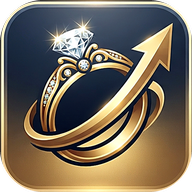
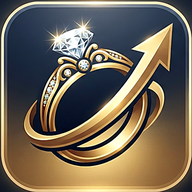
Add files via upload

diff --git a/index.html b/index.html
@@ -862,27 +862,33 @@
         radial-gradient(ellipse 70% 55% at 50% 42%, rgba(212,175,55,.16) 0%, rgba(212,175,55,0) 62%),
         radial-gradient(ellipse at center, #1c2438 0%, #131a2c 45%, #0a0f1e 100%)!important;
 }
-#loginOverlay .login-box, #custPortalLoginPanel .login-box{
+#loginOverlay .login-box{
     background:linear-gradient(160deg, rgba(30,39,62,.92), rgba(15,21,38,.94))!important;
     border:1.5px solid transparent!important;
     background-clip:padding-box;
     box-shadow:0 0 0 1.5px rgba(212,175,55,.55), 0 0 42px rgba(212,175,55,.14), 0 24px 60px rgba(0,0,0,.6)!important;
     border-radius:26px!important;
 }
-#custPortalLoginPanel{
-    background:
-        radial-gradient(ellipse 70% 55% at 50% 42%, rgba(212,175,55,.14) 0%, rgba(212,175,55,0) 62%),
-        radial-gradient(ellipse at center, #1c2438 0%, #131a2c 45%, #0a0f1e 100%)!important;
-}
 </style>
 <div id="loginOverlay">
     <!-- لوحة الدخول الرئيسية -->
     <div class="login-box" id="loginMainPanel">
         <div class="login-logo" style="margin-bottom:.7rem">
-            <img src="icons/icon-192.png" alt="" style="width:96px;height:96px;border-radius:24px;box-shadow:0 0 34px rgba(212,175,55,.55),0 0 80px rgba(212,175,55,.2);display:block;margin:0 auto">
+            <svg viewBox="0 0 100 100" width="96" height="96" style="display:block;margin:0 auto;border-radius:24px;box-shadow:0 0 34px rgba(212,175,55,.55),0 0 80px rgba(212,175,55,.2)">
+  <defs>
+    <linearGradient id="lgBg" x1="0" y1="0" x2="1" y2="1"><stop offset="0" stop-color="#2a3350"/><stop offset="1" stop-color="#0f1526"/></linearGradient>
+    <linearGradient id="lgGold" x1="0" y1="0" x2="1" y2="1"><stop offset="0" stop-color="#f6e27a"/><stop offset="0.5" stop-color="#d4af37"/><stop offset="1" stop-color="#a87b1f"/></linearGradient>
+  </defs>
+  <rect x="2" y="2" width="96" height="96" rx="22" fill="url(#lgBg)" stroke="url(#lgGold)" stroke-width="3"/>
+  <path d="M22 62 C22 50 34 44 50 44 C66 44 78 50 78 62 C78 74 66 80 50 80 C34 80 22 74 22 62 Z" fill="none" stroke="url(#lgGold)" stroke-width="5"/>
+  <path d="M30 66 L70 40 L64 38 M70 40 L68 46" fill="none" stroke="url(#lgGold)" stroke-width="4.5" stroke-linecap="round" stroke-linejoin="round"/>
+  <path d="M42 40 L50 24 L58 40 Z" fill="#eaf4ff" stroke="url(#lgGold)" stroke-width="1.5"/>
+  <path d="M42 40 L50 32 L58 40 M50 24 L50 40" fill="none" stroke="#9fb8d6" stroke-width="1"/>
+</svg>
         </div>
         <h2 class="login-title" style="background:linear-gradient(135deg,#f6e27a,#d4af37 45%,#a87b1f);-webkit-background-clip:text;background-clip:text;-webkit-text-fill-color:transparent;letter-spacing:.03em">GoldPro</h2>
         <p class="login-sub">نظام إدارة الذهب — سجّل دخولك</p>
+        <p style="font-size:.66rem;color:#9ca3af;margin:.15rem 0 .5rem">أنت زبون؟ أدخل رقم هاتفك في «اسم المستخدم» وكلمة سرك</p>
         <input type="text" id="loginUser" placeholder="👤 اسم المستخدم"
             autocomplete="username" dir="ltr"
             style="width:100%;padding:.85rem 1rem;border-radius:12px;border:1.5px solid rgba(212,175,55,.4);background:rgba(255,255,255,.08);color:#fff;font-size:1rem;font-family:Tajawal,sans-serif;text-align:center;outline:none;transition:border-color .2s;margin-bottom:.5rem"
@@ -891,10 +897,6 @@
             autocomplete="current-password"
             onkeydown="if(event.key==='Enter'){event.stopPropagation();doLogin()}">
         <button class="login-btn" onclick="doLogin()">دخول →</button>
-        <button onclick="openCustPortalLogin()"
-            style="width:100%;margin-top:.6rem;padding:.7rem;border:1.5px solid rgba(212,175,55,.45);border-radius:12px;background:transparent;color:var(--g400,#d4af37);font-weight:900;font-family:Tajawal,sans-serif;font-size:.9rem;cursor:pointer">
-            👤 دخول الزبائن — كشف الحساب برقم الهاتف
-        </button>
         <p id="loginErr" style="display:none">❌ خطأ</p>
         <p style="margin-top:.8rem;font-size:.72rem;color:rgba(255,255,255,.35);text-align:center">
             <span onclick="window._changeSN()" style="cursor:pointer;text-decoration:underline;color:rgba(212,175,55,.5)">🔁 تغيير رمز التفعيل</span>
@@ -966,24 +968,6 @@ window._installPWA = async () => {
 </script>
 
 <!-- ═══ بوابة الزبون: كشف الحساب ═══ -->
-<div id="custPortalLoginPanel" style="display:none;position:fixed;inset:0;z-index:10001;background:radial-gradient(ellipse at center,#1a1206 0%,#0a0700 100%);align-items:center;justify-content:center">
-    <div class="login-box" style="max-width:360px">
-        <div class="login-logo" style="margin-bottom:.7rem">
-            <img src="icons/icon-192.png" alt="" style="width:80px;height:80px;border-radius:20px;box-shadow:0 0 28px rgba(212,175,55,.5);display:block;margin:0 auto">
-        </div>
-        <h2 class="login-title" style="font-size:1.25rem">كشف حساب الزبون</h2>
-        <p class="login-sub" style="font-size:.78rem">أدخل رقم هاتفك وكلمة السر التي أعطاك إياها المحل</p>
-        <input type="tel" id="custPortalPhone" placeholder="📱 06XXXXXXXX" dir="ltr" maxlength="15"
-            style="width:100%;padding:.85rem 1rem;border-radius:12px;border:1.5px solid rgba(212,175,55,.4);background:rgba(255,255,255,.08);color:#fff;font-size:1.1rem;text-align:center;letter-spacing:.12em;outline:none;margin-bottom:.55rem">
-        <input type="password" id="custPortalPin" placeholder="🔑 كلمة السر" dir="ltr" maxlength="20"
-            style="width:100%;padding:.85rem 1rem;border-radius:12px;border:1.5px solid rgba(212,175,55,.4);background:rgba(255,255,255,.08);color:#fff;font-size:1.1rem;text-align:center;letter-spacing:.14em;outline:none;margin-bottom:.55rem"
-            onkeydown="if(event.key==='Enter'){event.stopPropagation();custPortalLogin()}">
-        <button class="login-btn" onclick="custPortalLogin()">عرض حسابي →</button>
-        <p id="custPortalErr" style="display:none;color:#ff6b6b;font-size:.76rem;text-align:center;margin-top:.5rem"></p>
-        <button onclick="closeCustPortalLogin()" style="width:100%;margin-top:.6rem;padding:.55rem;border:none;border-radius:10px;background:rgba(255,255,255,.08);color:#ccc;font-family:Tajawal,sans-serif;font-weight:800;cursor:pointer">← رجوع</button>
-    </div>
-</div>
-
 <div id="custPortalScreen" style="display:none;position:fixed;inset:0;z-index:10002;background:var(--bg,#0d1120);overflow-y:auto;direction:rtl;font-family:Tajawal,sans-serif">
     <div style="position:sticky;top:0;z-index:5;background:linear-gradient(135deg,#1a1206,#0d1120);border-bottom:1px solid rgba(212,175,55,.25);padding:.8rem 1rem;display:flex;align-items:center;gap:.6rem">
         <button onclick="closeCustPortal()" style="width:36px;height:36px;border-radius:50%;border:none;background:rgba(255,255,255,.1);color:#fff;font-size:1rem;cursor:pointer">✕</button>

diff --git a/app.js b/app.js
@@ -879,7 +879,7 @@ window.showGTBalance=()=>{
 };
 window.openGiveTake=(t)=>{
     gtType=(t==='give')?'give':'take';
-    document.getElementById('gtTitle').textContent=(t==='give'?'🟢 تسليم (أعطيت)':'🔴 استلام (قبضت)')+' • v75';
+    document.getElementById('gtTitle').textContent=(t==='give'?'🟢 تسليم (أعطيت)':'🔴 استلام (قبضت)')+' • v76';
     document.getElementById('gtSaveBtn').className=t==='give'?'bg':'br';
     document.getElementById('gtCustomer').value='';
     document.getElementById('gtAmount').value='';
@@ -1025,34 +1025,37 @@ window._publishPortal=()=>{
 window._publishPortalDebounced=(function(){let t=null;return function(){clearTimeout(t);t=setTimeout(()=>{try{window._publishPortal();}catch(e){}},2500);};})();
 
 /* ── جهة الزبون ── */
-window.openCustPortalLogin=()=>{ const p=document.getElementById('custPortalLoginPanel'); if(p)p.style.display='flex'; };
-window.closeCustPortalLogin=()=>{ const p=document.getElementById('custPortalLoginPanel'); if(p)p.style.display='none'; };
 window.closeCustPortal=()=>{
     const sc=document.getElementById('custPortalScreen'); if(sc)sc.style.display='none';
     if(window._portalRef){try{window._portalRef.off();}catch(e){} window._portalRef=null;}
+    window._portalMode=false;
+    const ov=document.getElementById('loginOverlay');
+    if(ov){ov.style.display='';ov.classList.remove('fade-out');}
+    const pu=document.getElementById('loginUser'),pp=document.getElementById('loginPw');
+    if(pu)pu.value='';if(pp)pp.value='';
 };
-window.custPortalLogin=async()=>{
-    const ph=window._normPhone(document.getElementById('custPortalPhone')?.value);
-    const pin=(document.getElementById('custPortalPin')?.value||'').trim().replace(/[\/\.\#\$\[\]\s]/g,'');
-    const err=document.getElementById('custPortalErr');
-    const showErr=(m)=>{if(err){err.textContent=m;err.style.display='block';}};
-    if(!ph||ph.length<8)return showErr('أدخل رقم هاتف صحيح');
-    if(!pin)return showErr('أدخل كلمة السر');
-    if(err)err.style.display='none';
+/* 👤 محاولة دخول الزبون من نافذة الدخول الموحّدة — تُرجع true عند النجاح */
+window._tryCustomerPortal=async(phoneDigits,pin)=>{
+    const ph=window._normPhone(phoneDigits);
+    const cleanPin=(pin||'').trim().replace(/[\/\.\#\$\[\]\s]/g,'');
+    if(!ph||ph.length<8||!cleanPin)return false;
     try{
         window._portalMode=true;
         if(!firebase.auth().currentUser)await firebase.auth().signInAnonymously();
-        const ref=firebase.database().ref('goldpro/portal/'+ph+'/'+pin);
+        const ref=firebase.database().ref('goldpro/portal/'+ph+'/'+cleanPin);
         const snap=await ref.once('value');
         const d=snap.val();
-        if(!d||!d.name)return showErr('الرقم أو كلمة السر غير صحيحة — راجع المحل');
+        if(!d||!d.name){ window._portalMode=false; return false; }
         window._portalRef=ref;
         ref.on('value',s2=>{const v=s2.val();if(v)window._renderCustPortal(v);});
         window._renderCustPortal(d);
-        closeCustPortalLogin();
+        const ov=document.getElementById('loginOverlay');
+        if(ov)ov.style.display='none';
         document.getElementById('custPortalScreen').style.display='block';
+        return true;
     }catch(e){
-        showErr('تعذّر الاتصال — تأكد من الإنترنت'+(e&&e.code?` (${e.code})`:''));
+        window._portalMode=false;
+        return false;
     }
 };
 window._portalInvCache={};

diff --git a/auth.js b/auth.js
@@ -81,11 +81,20 @@ function _showLoginErr(msg){
 }
 
 async function doLogin(){
-    const uname=(document.getElementById('loginUser').value||'').trim().toLowerCase();
+    const rawUser=(document.getElementById('loginUser').value||'').trim();
+    const uname=rawUser.toLowerCase();
     const pw=document.getElementById('loginPw').value;
     document.getElementById('loginErr').style.display='none';
-    if(!uname)return _showLoginErr('أدخل اسم المستخدم');
+    if(!rawUser)return _showLoginErr('أدخل اسم المستخدم');
     if(!pw)return _showLoginErr('أدخل كلمة المرور');
+
+    /* 👤 توجيه الزبون: إذا كان الحقل رقم هاتف (أرقام فقط، 8+ خانات) جرّب بوابة كشف الحساب أولاً */
+    const _digits=rawUser.replace(/[^0-9]/g,'');
+    if(_digits.length>=8 && /^[0-9+\s]+$/.test(rawUser)){
+        const _ok=await (window._tryCustomerPortal?window._tryCustomerPortal(_digits,pw):Promise.resolve(false));
+        if(_ok)return; /* دخل الزبون بنجاح */
+        /* إن فشل، نكمل كمحاولة مستخدم عادي (قد يكون اسم مستخدم رقمي) */
+    }
 
     /* مؤشر التحميل أثناء التحقق */
     const btn=document.querySelector('#loginMainPanel .login-btn');

diff --git a/sw.js b/sw.js
@@ -1,5 +1,5 @@
 /* sw.js — Network-First مع Cache offline */
-const CACHE = 'goldpro-v75';
+const CACHE = 'goldpro-v76';
 const ASSETS = [
   './',
   './index.html',